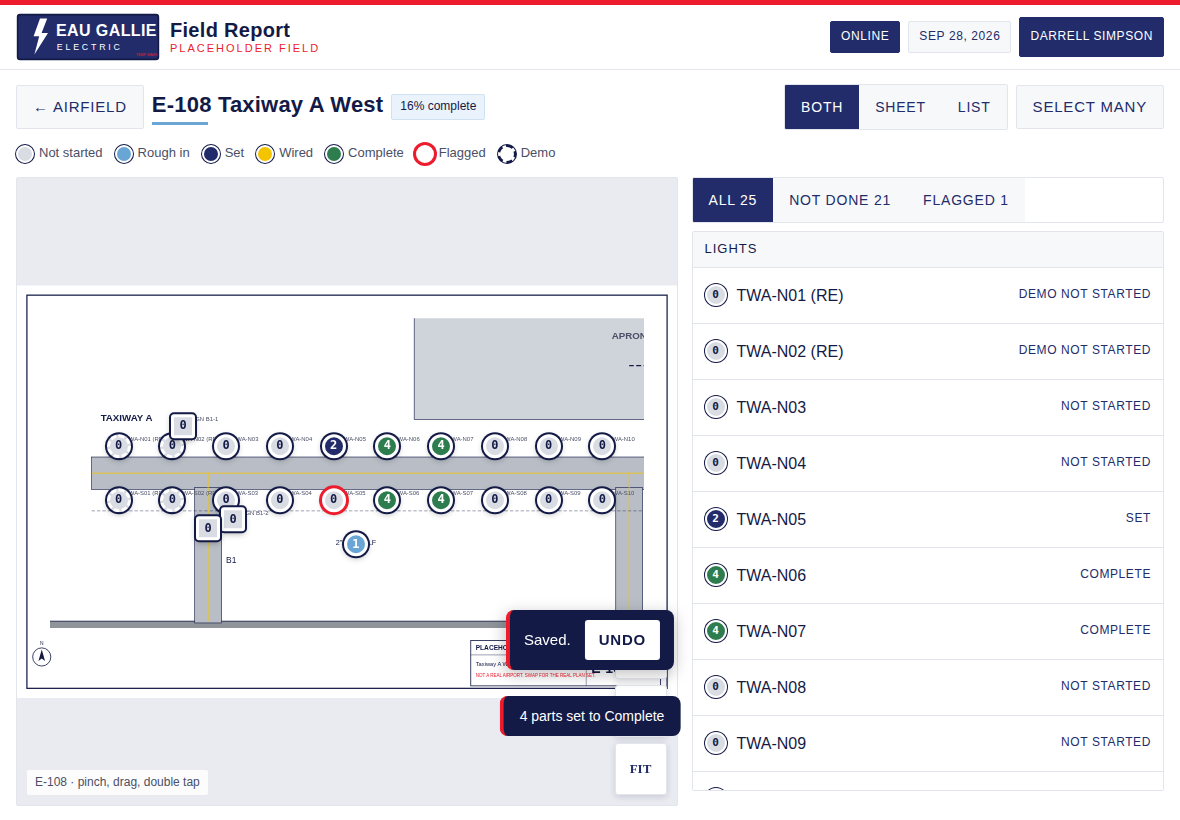
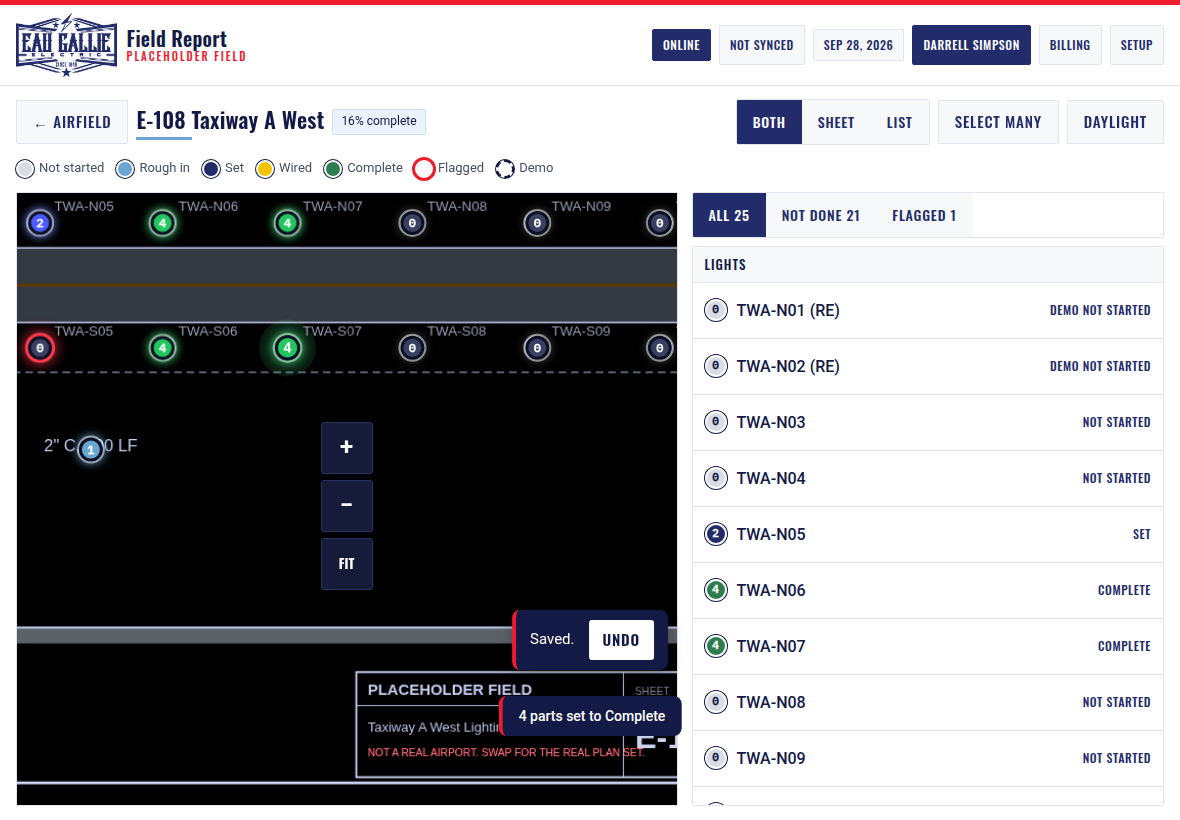
Night map with glowing pins, eased zoom, fly into a zone, screen and pin motion
Claude-Session: https://claude.ai/code/session_01EsBkVUvmYeYL8MfsS4Qoeh

diff --git a/app/src/app.css b/app/src/app.css
@@ -188,3 +188,54 @@ body.ege { padding-block: 0 0; overscroll-behavior: none; }
 .billtable tr.credit td { color: var(--ege-bad); }
 .billtable tfoot td { border-top: 2px solid var(--ege-navy); font-size: 16px; }
 .bigchips input[type=date] { min-height: 60px; font-size: 16px; border: 2px solid var(--ege-line); border-radius: 3px; padding: 6px 12px; font-family: var(--ege-mono); }
+
+/* ---------- Motion and the night map ---------- */
+/* screens slide in, the map glides into a zone, pins pop when you tap them */
+@keyframes route-in { from { opacity: 0; transform: translateY(14px); } to { opacity: 1; transform: none; } }
+.route { display: contents; }
+.route > .screen { animation: route-in .28s cubic-bezier(.2,.7,.2,1) both; }
+.viewer.eased .stage { transition: transform .42s cubic-bezier(.2,.7,.2,1); }
+.viewer .zoomctl button, .ege-btn, .chip, .choice, .stepbtn, .prow { transition: background .15s ease, border-color .15s ease, transform .12s ease, box-shadow .2s ease; }
+.ege-btn:active, .chip:active, .choice:active, .stepbtn:active { transform: scale(.97); }
+@keyframes sheet-up { from { transform: translateY(40px); opacity: 0; } to { transform: none; opacity: 1; } }
+.ege-sheet-box { animation: sheet-up .26s cubic-bezier(.2,.7,.2,1) both; }
+@keyframes toast-in { from { transform: translate(-50%, 12px); opacity: 0; } to { transform: translate(-50%, 0); opacity: 1; } }
+.undo { animation: toast-in .2s ease both; }
+.zone-fill, .stat .v { transition: width .6s cubic-bezier(.2,.7,.2,1); }
+
+/* the night sheet: the drawing inverts to a CAD screen, pavement goes dark, lines go light */
+.viewer.dark { background: #0B1024; }
+.viewer.dark .stage img { filter: invert(1) hue-rotate(180deg) brightness(.92) contrast(1.05); }
+.viewer.dark .hint { background: rgba(11,16,36,.85); color: #AEB6D6; }
+.viewer.dark .zoomctl button { background: #151B38; color: #fff; border-color: #2A3260; }
+
+/* zones on the night map glow, and light up when tapped */
+.viewer.dark .zone-poly { fill: rgba(105,166,213,.10); stroke: #69A6D5; stroke-width: 3; filter: drop-shadow(0 0 6px rgba(105,166,213,.9)); }
+.viewer.dark .zone-poly.p2 { fill: rgba(236,28,45,.10); stroke: #FF6B78; filter: drop-shadow(0 0 6px rgba(255,107,120,.9)); }
+.viewer.dark .zone-poly.done { stroke: #4ADE80; filter: drop-shadow(0 0 8px rgba(74,222,128,.9)); }
+.viewer.dark .zone-label { fill: #fff; stroke: #0B1024; }
+.viewer.dark .zone-sub { fill: #AEB6D6; stroke: #0B1024; }
+.viewer.dark .zone-bar { fill: #151B38; stroke: #69A6D5; }
+.viewer.dark .zone-fill { fill: #4ADE80; }
+.zone-g { transition: opacity .3s ease; }
+.zone-g.leaving .zone-poly { fill: rgba(245,196,0,.35); stroke: #F5C400; filter: drop-shadow(0 0 14px rgba(245,196,0,1)); }
+.zone-g:active .zone-poly { fill: rgba(245,196,0,.25); }
+
+/* pins glow in their status color on the night sheet */
+.viewer.dark .pin i { border-color: #0B1024; box-shadow: 0 0 0 2px rgba(255,255,255,.5), 0 0 10px 2px var(--glow, rgba(255,255,255,.35)); }
+.viewer.dark .pin.s0 { --glow: rgba(217,220,227,.25); } .viewer.dark .pin.s0 i { background: #3A4160; color: #fff; }
+.viewer.dark .pin.s1 { --glow: rgba(105,166,213,.85); }
+.viewer.dark .pin.s2 { --glow: rgba(120,140,255,.9); } .viewer.dark .pin.s2 i { background: #4A5CFF; }
+.viewer.dark .pin.s3 { --glow: rgba(245,196,0,.95); }
+.viewer.dark .pin.s4 { --glow: rgba(74,222,128,.95); } .viewer.dark .pin.s4 i { background: #22C55E; }
+.viewer.dark .pin.flagged i { box-shadow: 0 0 0 3px #FF3B4E, 0 0 14px 3px rgba(255,59,78,.9); }
+.viewer.dark .pin.selected i { box-shadow: 0 0 0 4px #F5C400, 0 0 16px 4px rgba(245,196,0,.9); }
+@keyframes pin-pop { 0% { transform: scale(1); } 40% { transform: scale(1.7); } 100% { transform: scale(1); } }
+@keyframes pin-ring { 0% { box-shadow: 0 0 0 0 var(--glow, rgba(255,255,255,.6)); opacity: 1; } 100% { box-shadow: 0 0 0 26px transparent; opacity: 0; } }
+.pin.pop i { animation: pin-pop .5s cubic-bezier(.2,.7,.2,1); }
+.pin.pop::after { content: ''; position: absolute; inset: 10px; border-radius: 50%; animation: pin-ring .7s ease-out forwards; pointer-events: none; }
+
+@media (prefers-reduced-motion: reduce) {
+  .route > .screen, .ege-sheet-box, .undo, .pin.pop i, .pin.pop::after { animation: none !important; }
+  .viewer.eased .stage, .zone-fill { transition: none !important; }
+}

diff --git a/app/src/components/PanZoom.tsx b/app/src/components/PanZoom.tsx
@@ -1,4 +1,4 @@
-import { useEffect, useRef, useState, type ReactNode, type PointerEvent as RPointerEvent } from 'react';
+import { forwardRef, useEffect, useImperativeHandle, useRef, useState, type ReactNode, type PointerEvent as RPointerEvent } from 'react';
 
 // Pinch, drag, double tap, plus buttons. Taps on children still work: a drag
 // longer than 8px cancels the click that would follow it.
@@ -11,11 +11,18 @@ interface Props {
   resetKey?: string;
   onTapStage?: (pt: { x: number; y: number }) => void;          // clean tap on the sheet, percent coords
   onDrawRect?: (r: { x1: number; y1: number; x2: number; y2: number }) => void;  // drag draws a box, percent coords
+  dark?: boolean;          // CAD night look: the sheet inverts, pins glow
+}
+
+export interface PanZoomHandle {
+  flyTo: (r: { x1: number; y1: number; x2: number; y2: number }, ms?: number) => Promise<void>;   // percent rect
+  fit: () => void;
 }
 
 interface View { s: number; tx: number; ty: number }
 
-export default function PanZoom({ width, height, src, children, hint, resetKey, onTapStage, onDrawRect }: Props) {
+const PanZoom = forwardRef<PanZoomHandle, Props>(function PanZoom({ width, height, src, children, hint, resetKey, onTapStage, onDrawRect, dark }, ref) {
+  const [eased, setEased] = useState(false);   // transitions on for button, double tap and fly zooms, off while a finger is down
   const [drawBox, setDrawBoxState] = useState<{ x1: number; y1: number; x2: number; y2: number } | null>(null);
   // Window listeners are attached on pointer down and would see stale state, so the live values live in refs.
   const drawRef = useRef<{ x1: number; y1: number; x2: number; y2: number } | null>(null);
@@ -53,6 +60,7 @@ export default function PanZoom({ width, height, src, children, hint, resetKey, 
   };
 
   const zoomAt = (factor: number, cx: number, cy: number) => {
+    setEased(true);
     setView(v => {
       const s = Math.min(Math.max(v.s * factor, 0.5), 8);
       const k = s / v.s;
@@ -67,6 +75,7 @@ export default function PanZoom({ width, height, src, children, hint, resetKey, 
   const toPct = (p: { x: number; y: number }, v: View = viewRef.current) => ({ x: ((p.x - v.tx) / (stageW * v.s)) * 100, y: ((p.y - v.ty) / (stageW * (height / width) * v.s)) * 100 });
 
   const onDown = (e: RPointerEvent) => {
+    setEased(false);
     const p = local(e);
     pointers.current.set(e.pointerId, p);
     // No pointer capture: it would re-target the click that follows, and
@@ -131,8 +140,22 @@ export default function PanZoom({ width, height, src, children, hint, resetKey, 
   };
   const onWheel = (e: React.WheelEvent) => { const p = local(e); zoomAt(e.deltaY < 0 ? 1.15 : 0.87, p.x, p.y); };
 
+  // Glide the view so a percent rect fills the box. Used when a zone is tapped on the airfield.
+  const flyTo = (r: { x1: number; y1: number; x2: number; y2: number }, ms = 420) => new Promise<void>(res => {
+    const el = box.current; if (!el) return res();
+    const bw = el.clientWidth, bh = el.clientHeight;
+    const sh = stageW * (height / width);
+    const rw = ((r.x2 - r.x1) / 100) * stageW, rh = ((r.y2 - r.y1) / 100) * sh;
+    const s = Math.min(8, Math.min(bw / rw, bh / rh) * 0.9);
+    const cx = ((r.x1 + r.x2) / 200) * stageW * s, cy = ((r.y1 + r.y2) / 200) * sh * s;
+    setEased(true);
+    setView({ s, tx: bw / 2 - cx, ty: bh / 2 - cy });
+    window.setTimeout(res, ms);
+  });
+  useImperativeHandle(ref, () => ({ flyTo, fit }), [stageW, width, height]); // eslint-disable-line react-hooks/exhaustive-deps
+
   return (
-    <div ref={box} className={'viewer' + (dragging ? ' dragging' : '')}
+    <div ref={box} className={'viewer' + (dragging ? ' dragging' : '') + (dark ? ' dark' : '') + (eased ? ' eased' : '')}
       onPointerDown={onDown} onClickCapture={onClickCapture} onWheel={onWheel}>
       <div className="stage" style={{ width: stageW, transform: `translate(${view.tx}px, ${view.ty}px) scale(${view.s})`, ['--inv' as string]: String(1 / view.s) }}>
         <img src={src} width={width} height={height} alt="" draggable={false} />
@@ -147,4 +170,5 @@ export default function PanZoom({ width, height, src, children, hint, resetKey, 
       {hint && <div className="hint">{hint}</div>}
     </div>
   );
-}
+});
+export default PanZoom;

diff --git a/app/src/screens/MapScreen.tsx b/app/src/screens/MapScreen.tsx
@@ -1,6 +1,8 @@
-import PanZoom from '../components/PanZoom';
+import { useRef, useState } from 'react';
+import PanZoom, { type PanZoomHandle } from '../components/PanZoom';
+import { setSetting } from '../db';
 import { useSheetSrc } from '../hooks/useSheetSrc';
-import { usePhases, useZones, useSheets, useParts, useOpenFlags, useTodayEventCount } from '../hooks/useJob';
+import { usePhases, useZones, useSheets, useParts, useOpenFlags, useTodayEventCount, useSheetDark } from '../hooks/useJob';
 import { zoneProgress } from '../lib/status';
 import type { Job } from '../types';
 
@@ -15,6 +17,16 @@ export default function MapScreen({ job, date, onZone, onReport }: Props) {
   const taps = useTodayEventCount(job.id, date);
   const overview = sheets.find(s => s.isOverview) ?? sheets.find(s => zones[0] && s.id === zones[0].overviewSheetId) ?? sheets[0];
   const overviewSrc = useSheetSrc(overview);
+  const dark = useSheetDark();
+  const pz = useRef<PanZoomHandle>(null);
+  const [leaving, setLeaving] = useState<string | null>(null);
+  const go = async (z: typeof zones[number]) => {
+    if (leaving) return;
+    setLeaving(z.id);
+    const xs = z.shape.map(p => p.x), ys = z.shape.map(p => p.y);
+    await pz.current?.flyTo({ x1: Math.min(...xs), y1: Math.min(...ys), x2: Math.max(...xs), y2: Math.max(...ys) });
+    onZone(z.id);
+  };
 
   const complete = parts.filter(p => (p.work === 'demo' ? p.demoStep === 4 : p.installStep === 4)).length;
 
@@ -29,11 +41,12 @@ export default function MapScreen({ job, date, onZone, onReport }: Props) {
       </div>
       <div className="legend">
         <span><b>Tap a zone</b> to open its sheet.</span>
+        <button type="button" className="ege-btn small" onClick={() => setSetting('sheetLook', dark ? 'day' : 'night')}>{dark ? 'Daylight' : 'Night'}</button>
         {phases.map((p, i) => <span key={p.id}><span className="sw" style={{ background: i === 0 ? 'rgba(105,166,213,.6)' : 'rgba(236,28,45,.35)', borderRadius: 3 }} />{p.name}</span>)}
       </div>
       {!zones.length && <div className="ege-banner">No zones on this job yet. Open Setup from the top bar to load the plans and draw zones.</div>}
       {overview && overviewSrc && (
-        <PanZoom width={overview.width} height={overview.height} src={overviewSrc} hint="Pinch to zoom, drag to pan, double tap to zoom in">
+        <PanZoom ref={pz} dark={dark} width={overview.width} height={overview.height} src={overviewSrc} hint="Pinch to zoom, drag to pan, double tap to zoom in">
           <svg viewBox={`0 0 ${overview.width} ${overview.height}`} style={{ position: 'absolute', inset: 0, width: '100%', height: '100%' }}>
             {zones.map(z => {
               const pts = z.shape.map(p => `${(p.x / 100) * overview.width},${(p.y / 100) * overview.height}`).join(' ');
@@ -46,8 +59,8 @@ export default function MapScreen({ job, date, onZone, onReport }: Props) {
               const phaseIdx = phases.findIndex(p => p.id === z.phaseId);
               const barW = Math.min(260, x1 - x0 - 24);
               return (
-                <g key={z.id} onClick={() => onZone(z.id)} style={{ cursor: 'pointer' }}>
-                  <polygon className={'zone-poly' + (phaseIdx === 1 ? ' p2' : '')} points={pts} />
+                <g key={z.id} className={'zone-g' + (leaving === z.id ? ' leaving' : '')} onClick={() => go(z)} style={{ cursor: 'pointer' }}>
+                  <polygon className={'zone-poly' + (phaseIdx === 1 ? ' p2' : '') + (pct === 100 ? ' done' : '')} points={pts} />
                   <text className="zone-label" x={x0 + 12} y={y0 + 40}>{z.name}</text>
                   <rect className="zone-bar" x={x0 + 12} y={y0 + 52} width={barW} height={16} rx={2} />
                   <rect className="zone-fill" x={x0 + 12} y={y0 + 52} width={(barW * pct) / 100} height={16} rx={2} />

diff --git a/app/src/screens/ZoneScreen.tsx b/app/src/screens/ZoneScreen.tsx
@@ -2,7 +2,9 @@ import { useEffect, useMemo, useRef, useState } from 'react';
 import PanZoom from '../components/PanZoom';
 import { useSheetSrc } from '../hooks/useSheetSrc';
 import PartCard, { ladderLabel } from './PartCard';
-import { useOpenFlags, useSheets, useZoneParts } from '../hooks/useJob';
+import { useOpenFlags, useSheets, useZoneParts, useSheetDark } from '../hooks/useJob';
+import { useLiveQuery } from 'dexie-react-hooks';
+import { db, setSetting } from '../db';
 import { activeLadder, currentStep, setStep, stepName, zoneProgress } from '../lib/status';
 import { toast } from '../ege/ege';
 import { STEPS, type Step, type Zone } from '../types';
@@ -17,6 +19,10 @@ export default function ZoneScreen({ zone, foreman, date, onBack }: Props) {
   const sheets = useSheets(zone.jobId);
   const sheet = sheets.find(s => s.id === zone.detailSheetId);
   const sheetSrc = useSheetSrc(sheet);
+  const dark = useSheetDark();
+  // the part that changed most recently gets a pop, so the tap has a visible answer on the sheet
+  const lastEvent = useLiveQuery(() => db.events.orderBy('createdAt').reverse().first(), []);
+  const popId = lastEvent && Date.now() - lastEvent.createdAt < 1500 ? lastEvent.partId : null;
   const parts = useZoneParts(zone.id);
   const flags = useOpenFlags(zone.jobId);
   const [mode, setMode] = useState<Mode>(() => (window.innerWidth < 900 ? 'pins' : 'both'));
@@ -59,7 +65,7 @@ export default function ZoneScreen({ zone, foreman, date, onBack }: Props) {
 
   const pins = sheet && parts.filter(p => p.x !== undefined).map(p => {
     const s = currentStep(p);
-    const cls = ['pin', `s${s}`, flagByPart.has(p.id) ? 'flagged' : '', activeLadder(p) === 'demo' ? 'demo' : '', sel.has(p.id) ? 'selected' : '', ['handhole', 'manhole', 'regulator', 'sign'].includes(p.category) ? 'sq' : ''].join(' ');
+    const cls = ['pin', `s${s}`, flagByPart.has(p.id) ? 'flagged' : '', activeLadder(p) === 'demo' ? 'demo' : '', sel.has(p.id) ? 'selected' : '', ['handhole', 'manhole', 'regulator', 'sign'].includes(p.category) ? 'sq' : '', popId === p.id ? 'pop' : ''].join(' ');
     return (
       <button key={p.id} type="button" className={cls} style={{ left: `${p.x}%`, top: `${p.y}%` }} aria-label={p.label} onClick={() => onTap(p.id)}>
         <i>{s}</i>
@@ -80,6 +86,7 @@ export default function ZoneScreen({ zone, foreman, date, onBack }: Props) {
           <button type="button" className={mode === 'list' ? 'on' : ''} onClick={() => setMode('list')}>List</button>
         </div>
         <button type="button" className={'ege-btn' + (bulk ? ' accent' : '')} onClick={() => { setBulk(b => !b); setSel(new Set()); }}>{bulk ? 'Cancel select' : 'Select many'}</button>
+        <button type="button" className="ege-btn" onClick={() => setSetting('sheetLook', dark ? 'day' : 'night')}>{dark ? 'Daylight' : 'Night'}</button>
       </div>
 
       {bulk && (
@@ -99,7 +106,7 @@ export default function ZoneScreen({ zone, foreman, date, onBack }: Props) {
 
       <div className={'zone-layout' + (mode === 'list' ? ' list-only' : mode === 'pins' ? ' pins-only' : '')}>
         {mode !== 'list' && sheet && (
-          <PanZoom width={sheet.width} height={sheet.height} src={sheetSrc} resetKey={zone.id} hint={`${sheet.name} · pinch, drag, double tap`}>
+          <PanZoom dark={dark} width={sheet.width} height={sheet.height} src={sheetSrc} resetKey={zone.id} hint={`${sheet.name} · pinch, drag, double tap`}>
             {pins}
           </PanZoom>
         )}

diff --git a/app/src/App.tsx b/app/src/App.tsx
@@ -58,6 +58,7 @@ export default function App() {
     <>
       <Header job={job} foreman={foreman} date={date} onChangeForeman={() => setRoute({ name: 'start' })} onHome={() => setRoute({ name: 'map' })} onSetup={() => setRoute({ name: 'admin' })} onBilling={() => setRoute({ name: 'billing' })} onSync={() => setSyncOpen(true)} />
       {syncOpen && <SyncSheet onClose={() => setSyncOpen(false)} />}
+      <div key={show.name + ('zoneId' in show ? show.zoneId : '')} className="route">
       {show.name === 'start' && <Start foreman={foreman} onDone={() => setRoute({ name: 'map' })} />}
       {show.name === 'map' && !job && <div className="screen"><div className="ege-panel"><h2 className="ege-h2">No job on this tablet</h2><p className="ege-intro">Open Setup to create one or import a job file.</p><button type="button" className="ege-btn primary" onClick={() => setRoute({ name: 'admin' })}>Setup</button></div></div>}
       {show.name === 'map' && job && <MapScreen job={job} date={date} onZone={id => setRoute({ name: 'zone', zoneId: id })} onReport={() => setRoute({ name: 'report' })} />}
@@ -65,6 +66,7 @@ export default function App() {
       {show.name === 'billing' && job && <BillingScreen job={job} foreman={foreman} onBack={() => setRoute({ name: 'map' })} />}
       {show.name === 'admin' && <AdminScreen onBack={() => setRoute({ name: 'map' })} />}
       {show.name === 'report' && job && <ReportScreen job={job} date={date} foreman={foreman} onBack={() => setRoute({ name: 'map' })} />}
+      </div>
       {undoShown && lastEvent && show.name !== 'report' && (
         <div className="undo"><span>Saved.</span><button type="button" onClick={undo}>Undo</button></div>
       )}

diff --git a/app/src/hooks/useJob.ts b/app/src/hooks/useJob.ts
@@ -38,3 +38,8 @@ export function useCrew() {
 export function useTodayEventCount(jobId: string | undefined, date: string) {
   return useLiveQuery(() => (jobId ? db.events.where('[jobId+reportDate]').equals([jobId, date]).count() : 0), [jobId, date]) ?? 0;
 }
+
+// Night look on the sheets is the default. One tap flips to daylight when the sun wins.
+export function useSheetDark(): boolean {
+  return useLiveQuery(() => db.settings.get('sheetLook').then(s => s?.value !== 'day'), []) ?? true;
+}

diff --git a/docs/SPEC.md b/docs/SPEC.md
@@ -30,7 +30,7 @@ Eau Gallie Electric. Internal working spec. Built from the interview on 2026-09-
 | Signer | Whoever submits also signs. No separate superintendent review step. |
 | Phases | A phase is a group of zones. Each zone carries a phase. Map colors by phase, report can group by phase. The Autodesk schedule already breaks work down as Phase, then plan sheet (E108, E109), then activity. So a zone is a plan sheet. |
 | Device | iPad. Installable web app on Safari, added to the home screen. |
-| Look | The Eau Gallie UI kit's colors and fonts only. Not its page layout. Screens follow the map and zone pattern: one thing per screen, big buttons, Back and Next. Real logo is in the header and on the home screen icon. |
+| Look | The Eau Gallie UI kit's colors and fonts for the chrome. The map and the sheets are the star: night look by default, the drawing inverts to a CAD screen, zones glow by phase, pins glow by status. One tap to Daylight when the sun wins. Motion everywhere it answers a tap: screens slide in, the map glides into a zone, pins pop, bars fill. |
 
 ## The status ladder, spelled out
 
